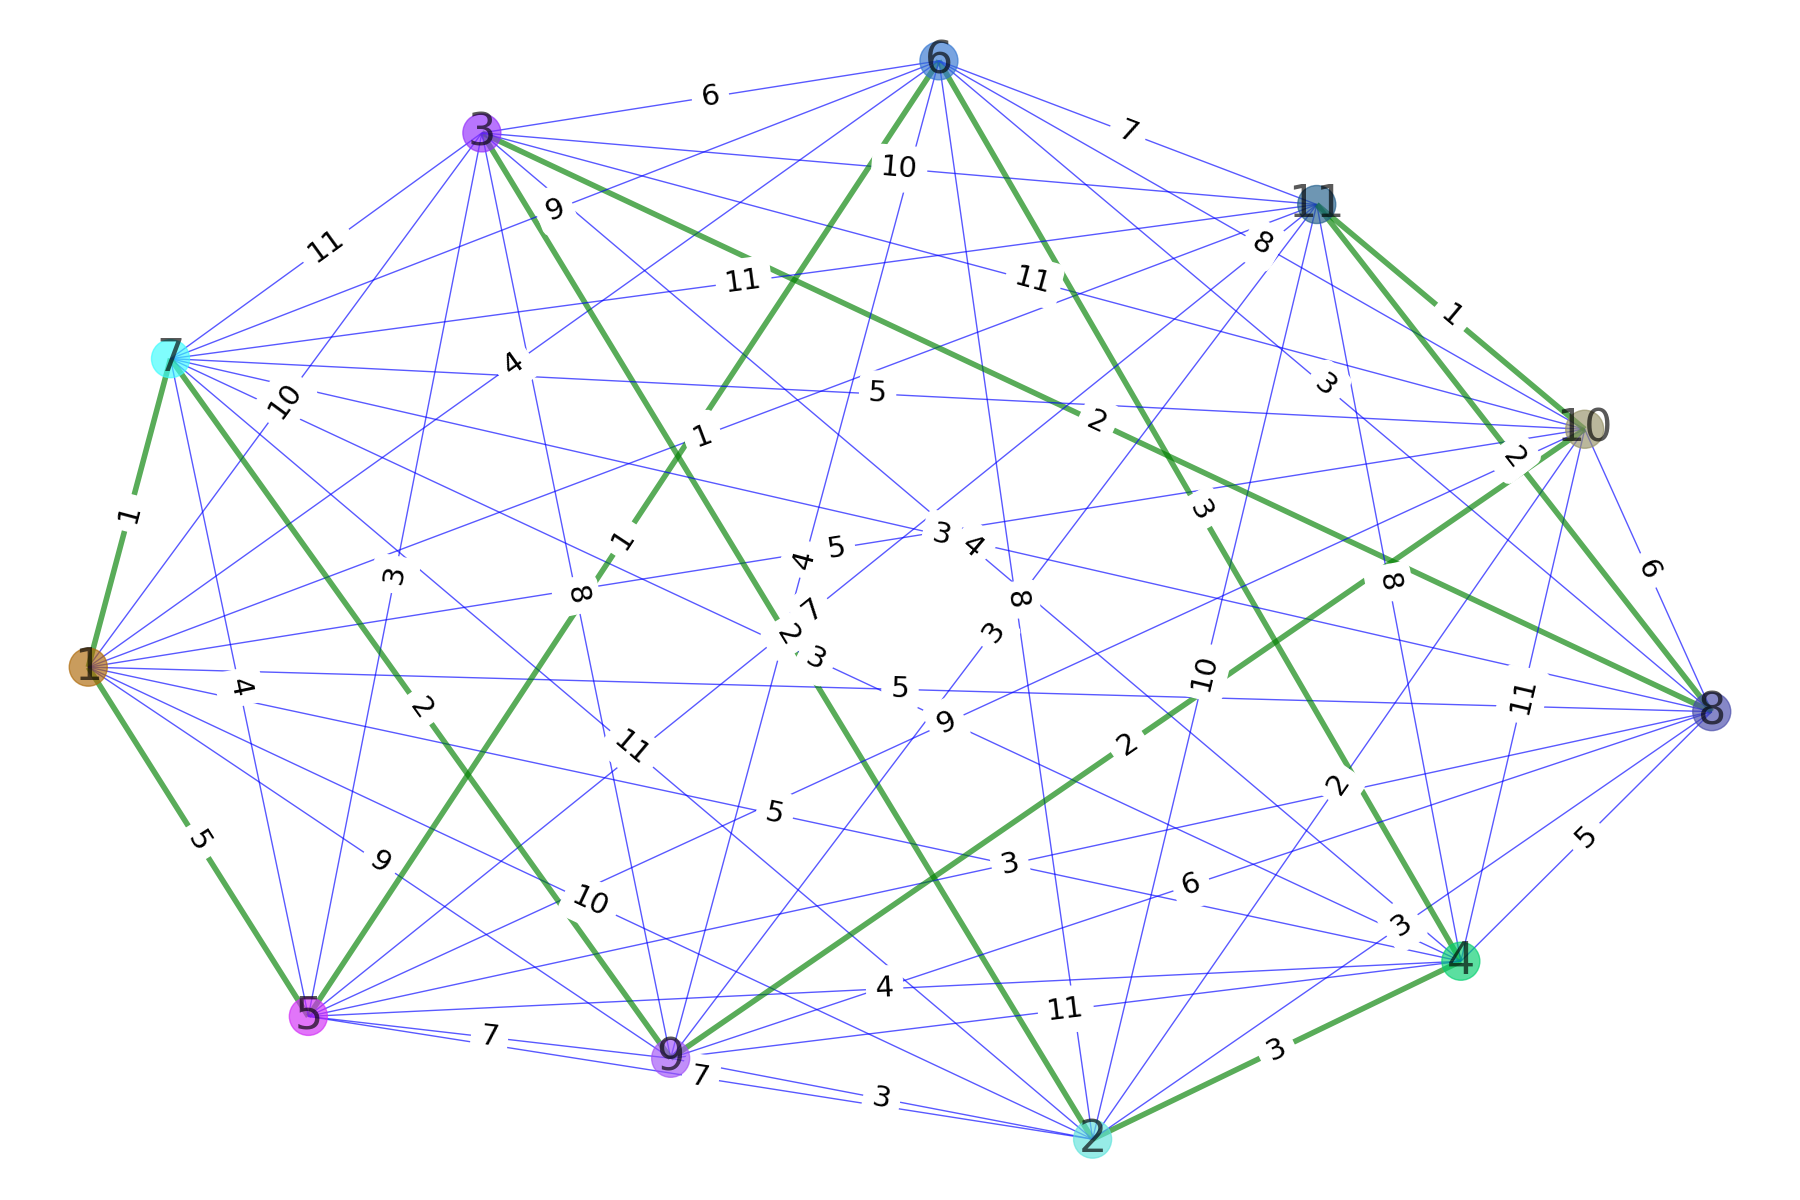
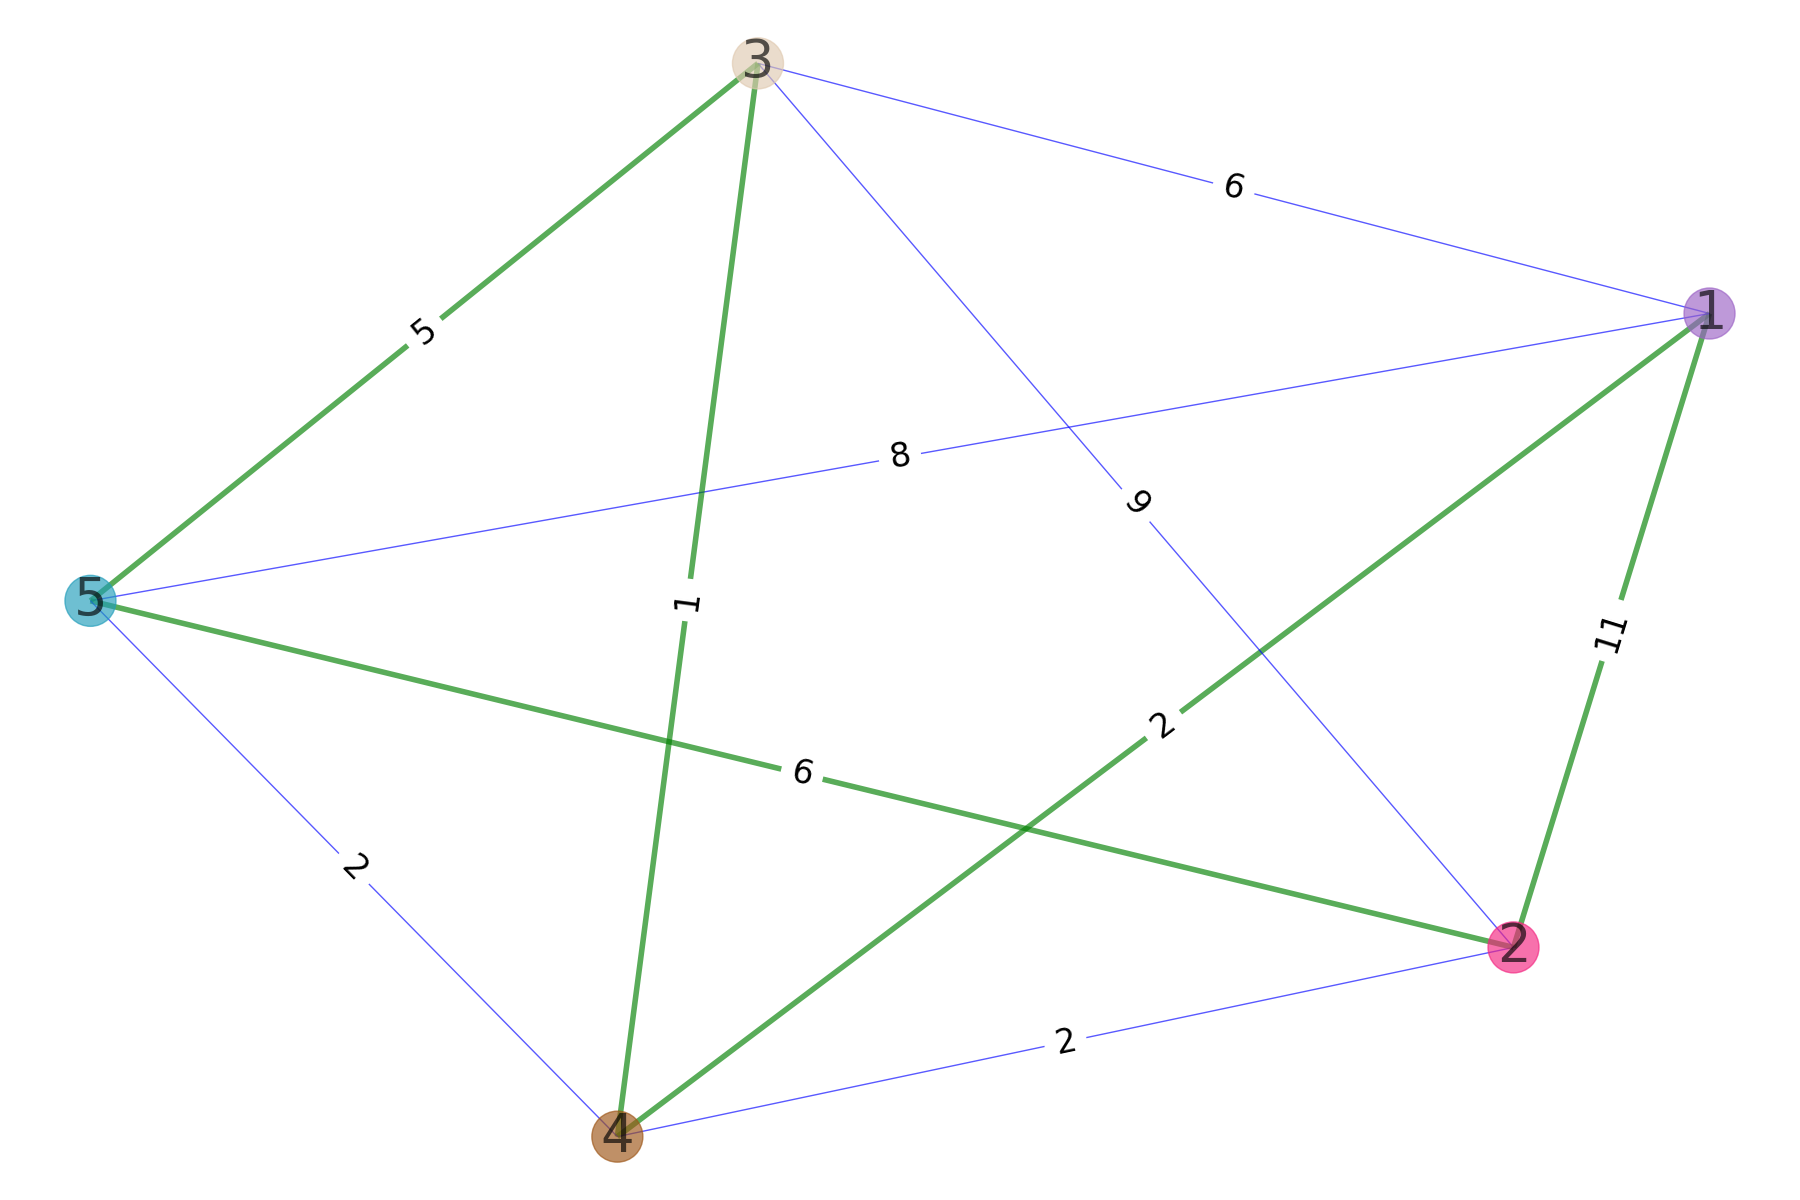
Update *.png

diff --git a/tsp.py b/tsp.py
@@ -55,7 +55,7 @@ def random_colors(number_of_colors):
 
 if __name__ == "__main__":
     # complete graph construction
-    n=12
+    n=6
     G, edges, weights = build_graph(w_low=1, w_high=12, n=n)
 
     # tsp solving
@@ -69,7 +69,7 @@ if __name__ == "__main__":
 
     # graph plotting
     plt.figure(1,figsize=(18,12))
-    nx.draw(G,pos, size=len(G.edges), labels=node_mapping, font_size=32, node_size=750,
+    nx.draw(G,pos, size=len(G.edges), labels=node_mapping, font_size=38, node_size=1350,
      node_color=node_colors, alpha=0.65, edge_color='b')
     nx.draw_networkx_edge_labels(G,pos,font_size=21 , edge_labels=edge_labels)
     plt.savefig('graph.png')
@@ -77,9 +77,9 @@ if __name__ == "__main__":
 
 
     plt.figure(2,figsize=(18,12))
-    nx.draw(G,pos, size=len(G.edges), labels=node_mapping, font_size=32, node_size=750,
+    nx.draw(G,pos, size=len(G.edges), labels=node_mapping, font_size=38, node_size=1350,
      node_color=node_colors, alpha=0.65, width=edge_weights, edge_color=edge_colors)
-    nx.draw_networkx_edge_labels(G,pos,font_size=21 , edge_labels=edge_labels)
+    nx.draw_networkx_edge_labels(G,pos,font_size=24 , edge_labels=edge_labels)
     plt.savefig('solution.png')
 
     plt.show()
